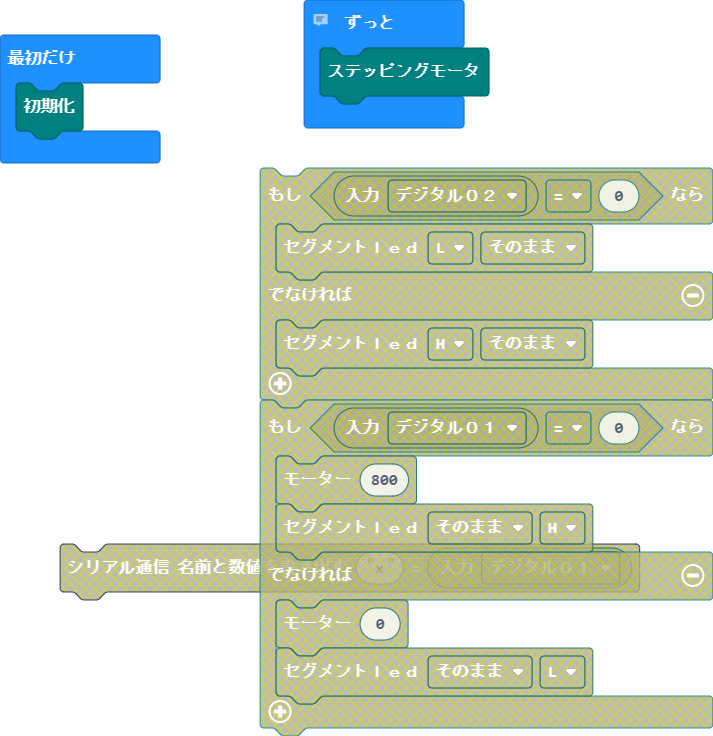
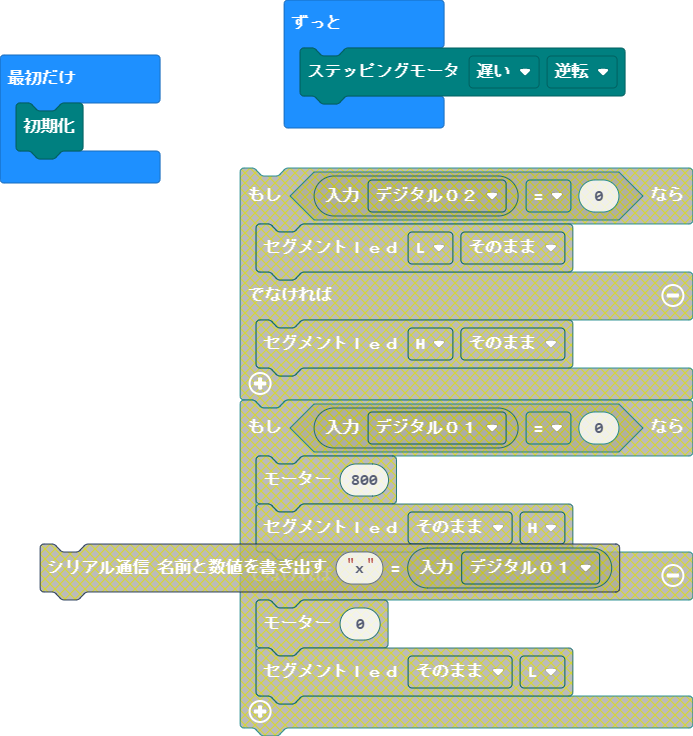
ステッピングモーターブロック作成

diff --git a/custom.ts b/custom.ts
@@ -76,6 +76,20 @@ enum io {
     //% block="アナログ０４"
     analog04,
 }
+enum step_speed {
+    //% block="遅い"
+    low,
+    //% block="普通"
+    mid,
+    //% block="速い"
+    hi
+}
+enum step_dir {
+    //% block="正転"
+    cw,
+    //% block="逆転"
+    ccw
+}
 let led_value:number
 let FullLED_Value:number
 let seg_l:number
@@ -158,21 +172,37 @@ namespace custom {
 
     }
     //% block
-    export function ステッピングモータ(): void {
-		let value = 16
+    export function ステッピングモータ(s:step_speed,d:step_dir): void {
+		let value
+        if(d==step_dir.cw){
+            value = 128
+        }else{
+            value = 16
+        }
         let i = 1
 		for(let j=0;j<4;j++){
-        pins.digitalWritePin(DigitalPin.P15, 0)
+           pins.digitalWritePin(DigitalPin.P15, 0)
 	        for (let index = 0; index < 8; index++) {
 	            let tmp = Math.trunc(value / i)
 	            pins.digitalWritePin(DigitalPin.P14, tmp % 2)
 	            clk()
 	            i = i * 2
 	        }
-        pins.digitalWritePin(DigitalPin.P15, 1)
-		i=1
-		value *=2
- //           basic.pause(0)
+            pins.digitalWritePin(DigitalPin.P15, 1)
+            i=1
+            if (d == step_dir.cw) {
+                value /= 2
+            } else {
+                value *= 2
+            }            
+            if(s==step_speed.low){
+                basic.pause(200)
+            } else if (s == step_speed.mid){
+                basic.pause(100)
+            }else{
+                basic.pause(0)
+            }
+            
 		}
     }
     //% block

diff --git a/main.ts b/main.ts
@@ -1,5 +1,4 @@
 custom.initialize()
-// custom.セグメントＬＥＤ(LED_view.e, LED_view.black)
 basic.forever(function () {
-    custom.ステッピングモータ()
+    custom.ステッピングモータ(step_speed.low, step_dir.ccw)
 })
